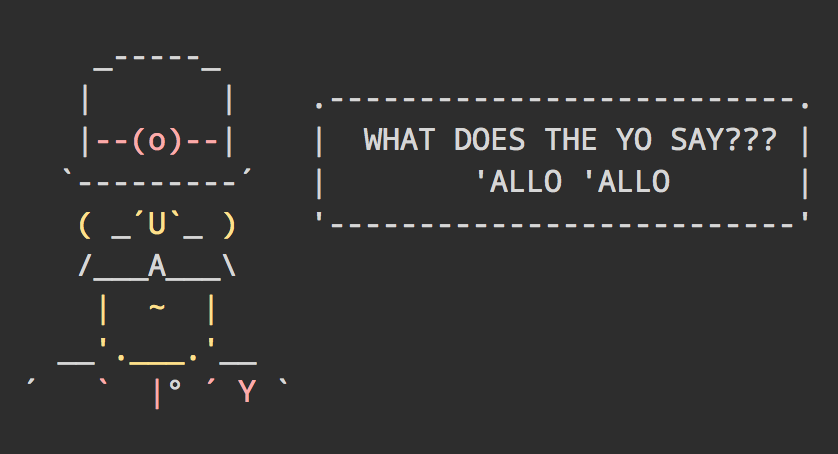
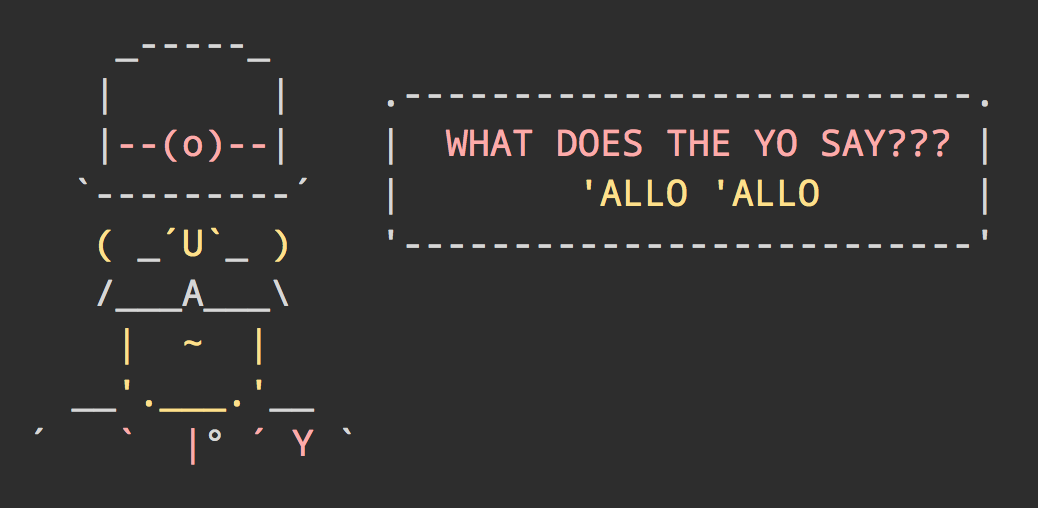
new screenshot with styled text

diff --git a/README.md b/README.md
@@ -34,6 +34,8 @@ console.log(yosay('Hello, and welcome to my fantastic generator full of whimsy a
  */
 ```
 
+*You can style your text with [chalk](https://github.com/sindresorhus/chalk) before passing it to `yosay`.*
+
 
 ## CLI
 
